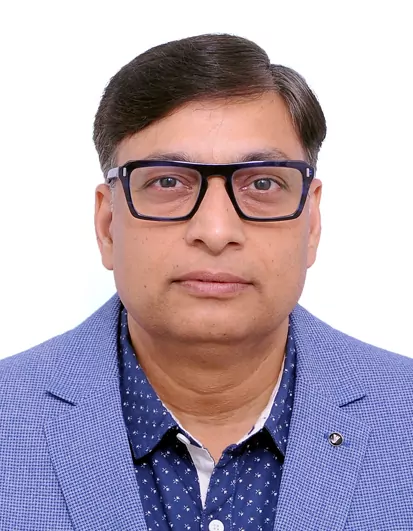
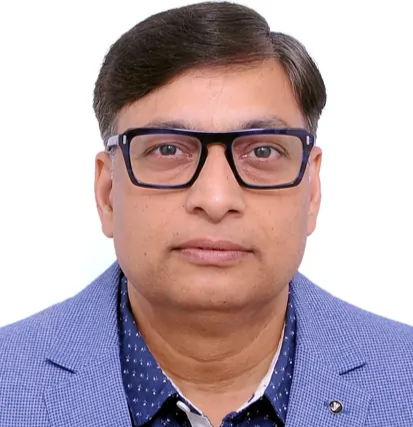
Fix Ravi and Saleem member photo display

diff --git a/people.html b/people.html
@@ -226,9 +226,9 @@
                 src="images/members/ravi-saxena.jpg"
                 alt="Ravi Saxena"
                 loading="lazy"
-                onerror="this.style.display='none'"
+                onerror="this.style.display='none'; this.nextElementSibling.style.display='grid';"
               >
-              <span>RS</span>
+              <span style="display:none;">RS</span>
             </div>
         <h2 class="member-name"><a href="people/ravi-saxena.html">Ravi Saxena</a></h2>
         <p class="member-role part-time-role">Part-Time PhD Candidate</p>
@@ -244,9 +244,9 @@
                 src="images/members/mohammad-saleem-bagewadi.jpg"
                 alt="Mohammad Saleem Bagewadi"
                 loading="lazy"
-                onerror="this.style.display='none'"
+                onerror="this.style.display='none'; this.nextElementSibling.style.display='grid';"
               >
-              <span>MSB</span>
+              <span style="display:none;">MSB</span>
             </div>
         
         <h2 class="member-name">

diff --git a/people/mohammad-saleem-bagewadi.html b/people/mohammad-saleem-bagewadi.html
@@ -330,7 +330,7 @@
             height="720"
             onerror="this.style.display='none'; this.nextElementSibling.style.display='grid';"
           >
-          <span class="member-avatar-fallback">MSB</span>
+          <span class="member-avatar-fallback" style="display:none;">MSB</span>
         </div>
 
         <div class="member-simple-content">

diff --git a/people/ravi-saxena.html b/people/ravi-saxena.html
@@ -330,7 +330,7 @@
             height="720"
             onerror="this.style.display='none'; this.nextElementSibling.style.display='grid';"
           >
-          <span class="member-avatar-fallback">RS</span>
+          <span class="member-avatar-fallback" style="display:none;">RS</span>
         </div>
 
         <div class="member-simple-content">
